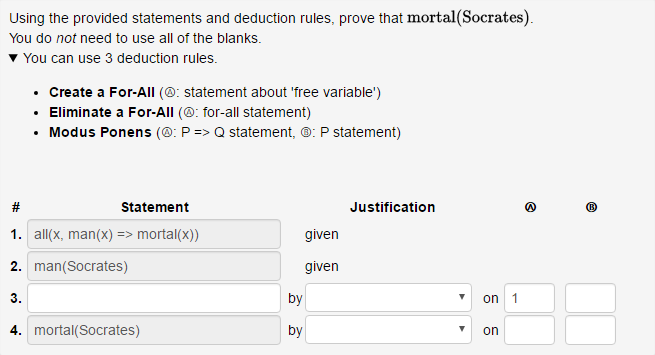
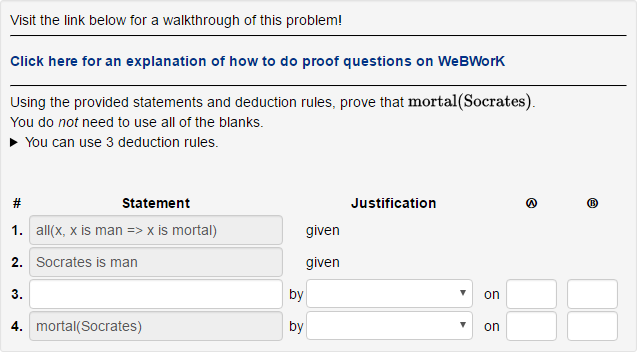
Update help page

diff --git a/help.html b/help.html
@@ -77,9 +77,6 @@
 	<p class=starred>Starred lines give directions or hints
 	for the tutorial problems.
 
-	<p><del>Struck-through text</del> indicates that
-	a feature is not (yet) available.
-
 	<p>Read the <a href="#tutorial">tutorial</a> for a walkthrough
 	of how to solve the first two tutorial questions.
 
@@ -158,26 +155,23 @@
 
 	<p><strong>Predicates</strong> like <code>x is mortal</code>
 	are typically written as <code>mortal(x)</code> in math.
-	WeBWorK allows you to write predicates in any of the three ways:
+	WeBWorK allows you to write predicates in any of these two ways:
 	<ul>
-		<li><code>x is a mortal</code>
 		<li><code>x is mortal</code>
 		<li><code>mortal(x)</code>
 	</ul>
-	<p>All three forms are equivalent. You can use whichever you
+	<p>Both forms are equivalent. You can use whichever you
 	prefer.
 
 
 	<p>To express a concept like "a man is a mortal", we have to
 	state it as an <strong>implication (if ... then ...)</strong>.
-	You can use
-	<del><code>if ... then ...</code> or</del> <code>=&gt;</code> to create
+	You can use <code>=&gt;</code> to create
 	implications.
 
-	<p>For example, "a man is a mortal" might be written as either
+	<p>For example, "a man is a mortal" might be written as
 	<ul>
-		<li><del><code>if x is a man then x is a mortal</code></del>
-		<li><code>x is a man => x is a mortal</code>
+		<li><code>x is man => x is mortal</code>
 	</ul>
 
 	<p>General statements like those involving the
@@ -192,8 +186,6 @@
 	<ul>
 		<li><code>forall(x, loves(x, icecream))</code>
 		<li><code>all(x, loves(x, icecream))</code>
-		<li><del><code>forall x loves(x, icecream)</code></del>
-		<li><del><code>all x loves(x, icecream)</code></del>
 	</ul>
 
 	<h3 id=tutorial>A simple example - WeBWorK</h3>
@@ -206,8 +198,8 @@
 		alt="(WeBWorK representation of 'Socrates is mortal' syllogism)">
 
 	<p>You can recognize that we want to use
-	<code>x is a man => x is a mortal</code>
-	together with the fact that <code>Socrates is a man</code>.
+	<code>x is man => x is mortal</code>
+	together with the fact that <code>Socrates is man</code>.
 	The deduction rule that allows us to use <code>A => B</code> and
 	<code>A</code>
 	together to conclude <code>B</code> is called
@@ -277,7 +269,7 @@
 	in this way is not easy.
 
 	<hr>
-	<h2>Suproofs Example</h2>
+	<h2>Subproofs Example</h2>
 
 	<p>Sometimes in proofs we need something that looks like this:
 
@@ -348,13 +340,13 @@
 	thing that exists:
 
 	<blockquote>
-		1. <code>forall n, P(n) => Q(n)</code>.<br>
-		2. <code>exists x, P(x)</code>.<br>
+		1. <code>forall(n, P(n) => Q(n))</code>.<br>
+		2. <code>exists(x, P(x))</code>.<br>
 		3. <strong>Suppose</strong> that "x" is called <code>bob</code>, i.e., <code>P(bob)</code>.
 		<div class=indent>
 			4. <code>P(bob) => Q(bob)</code> from (1.).<br>
 			5. <code>Q(bob)</code> from (3.) and (4.).<br>
-			6. <code>exists x, Q(x)</code> from (5.).<br>
+			6. <code>exists(x, Q(x))</code> from (5.).<br>
 		</div>
 		7. <strong>Conclude</strong> <code>exists x, Q(x)</code>.
 	</blockquote>
